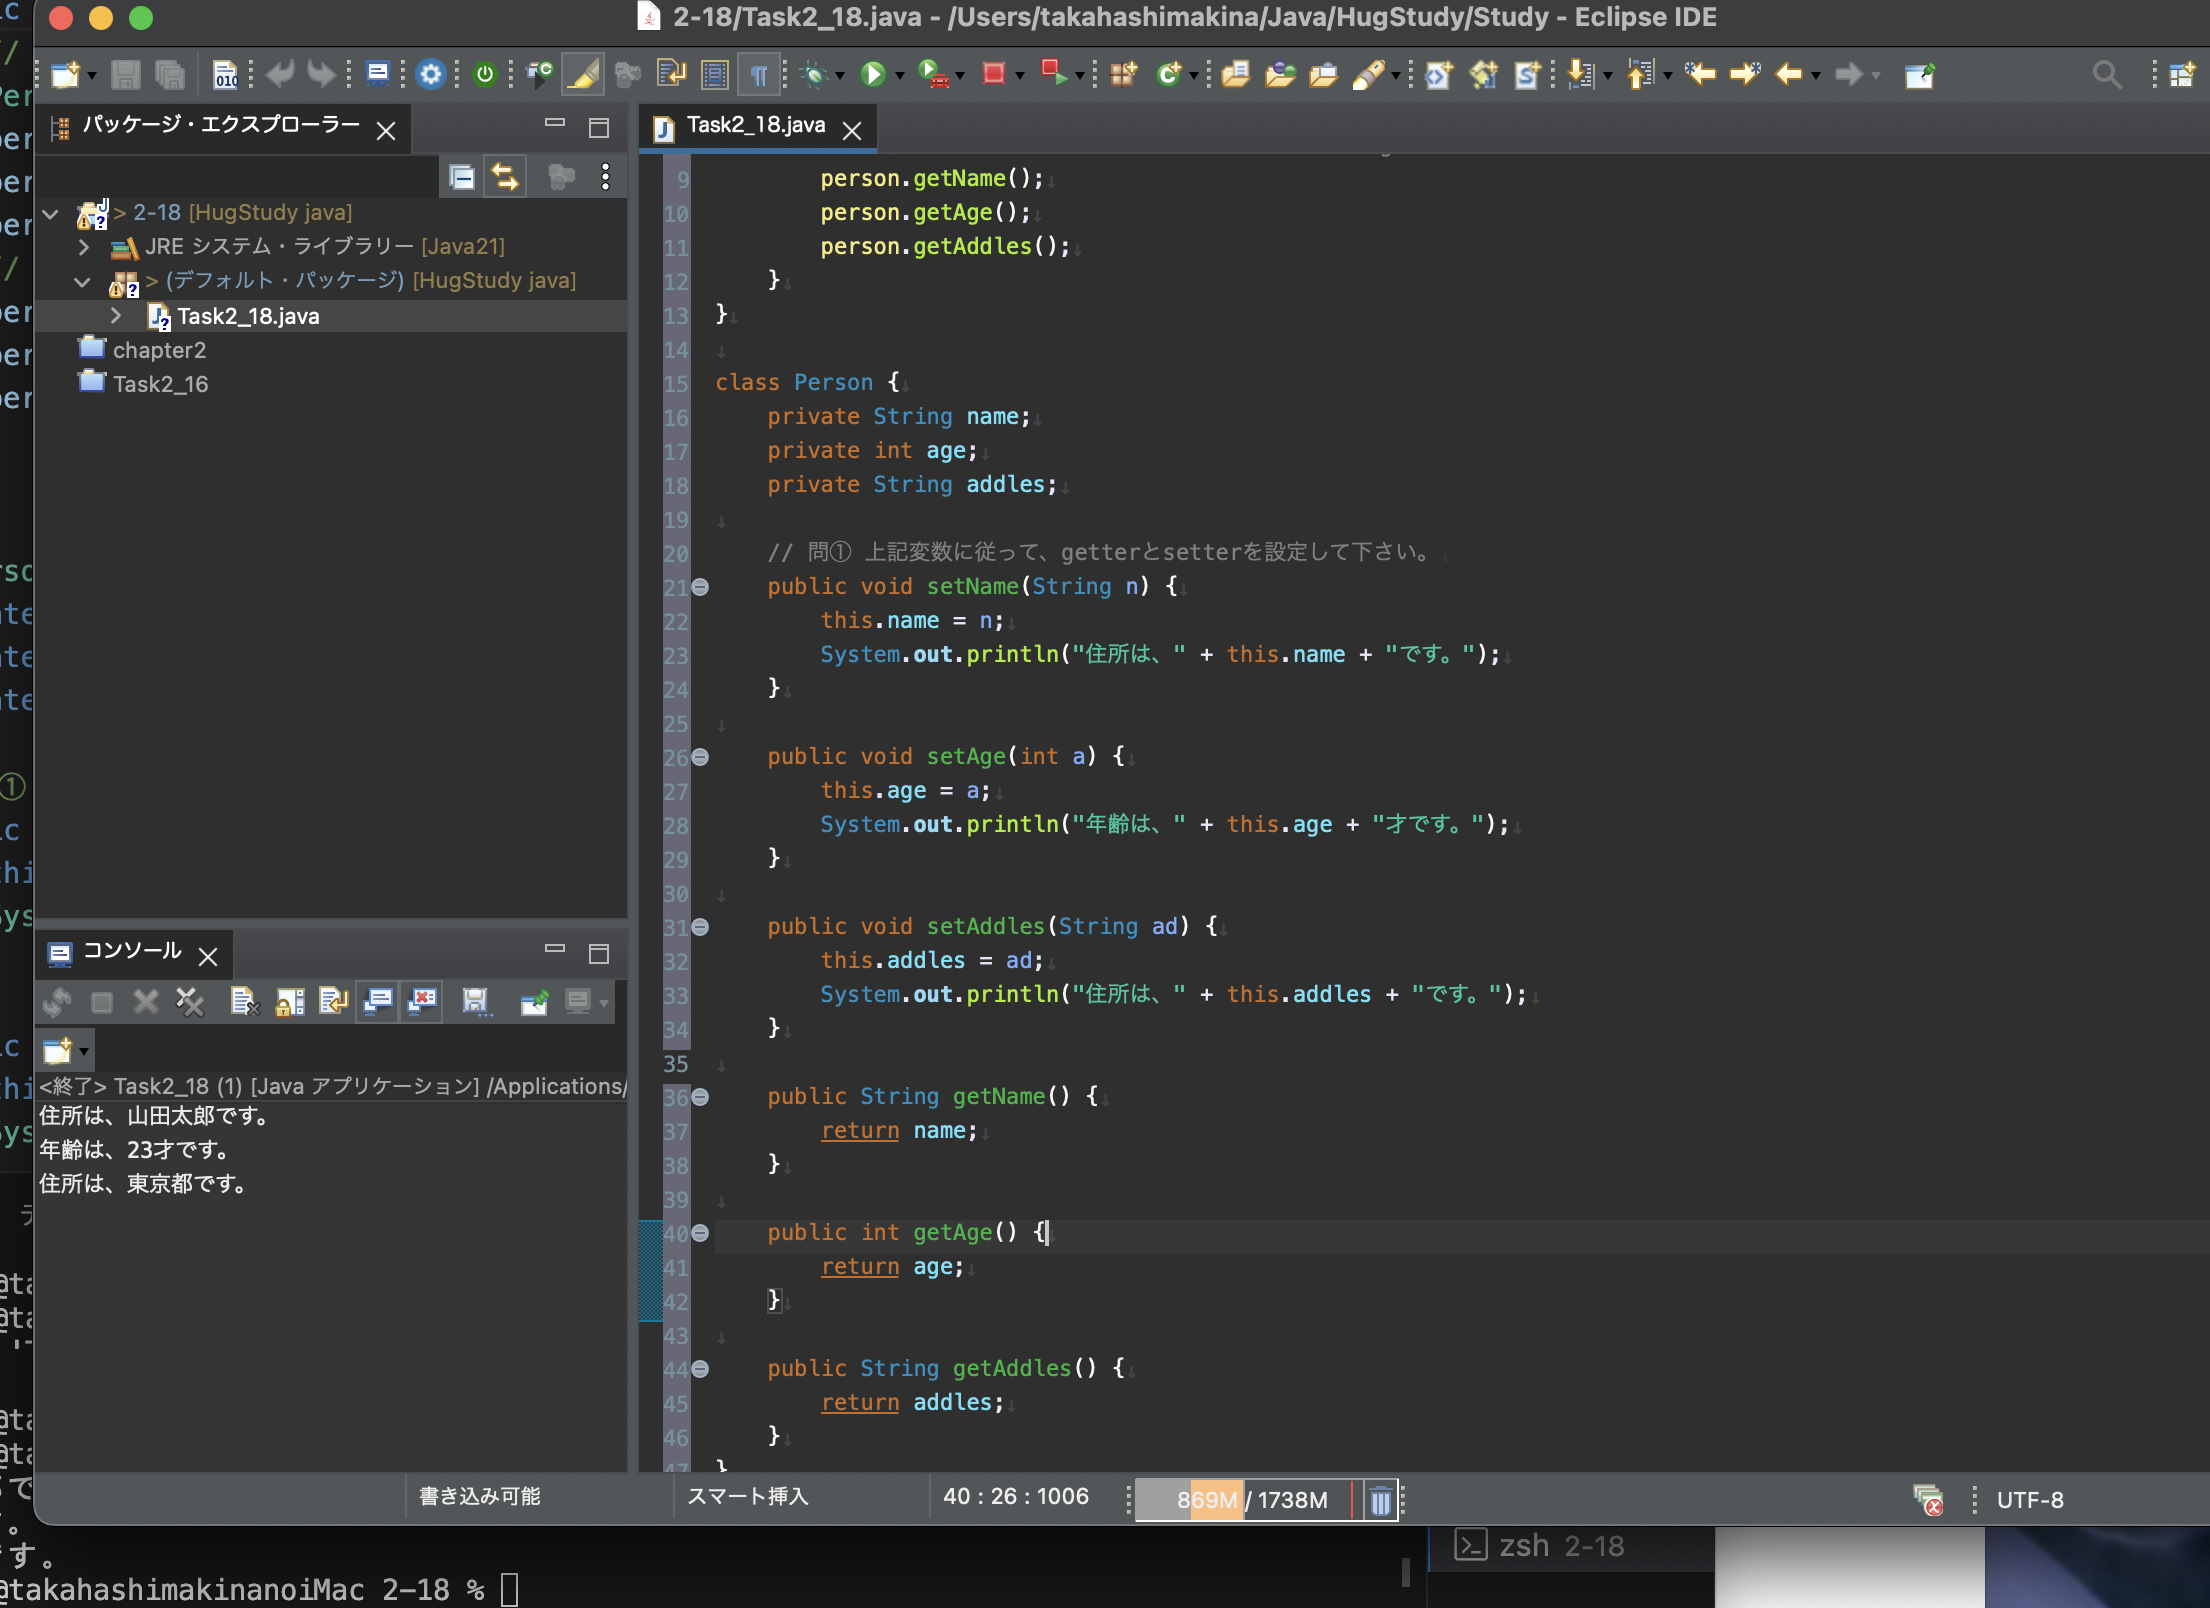
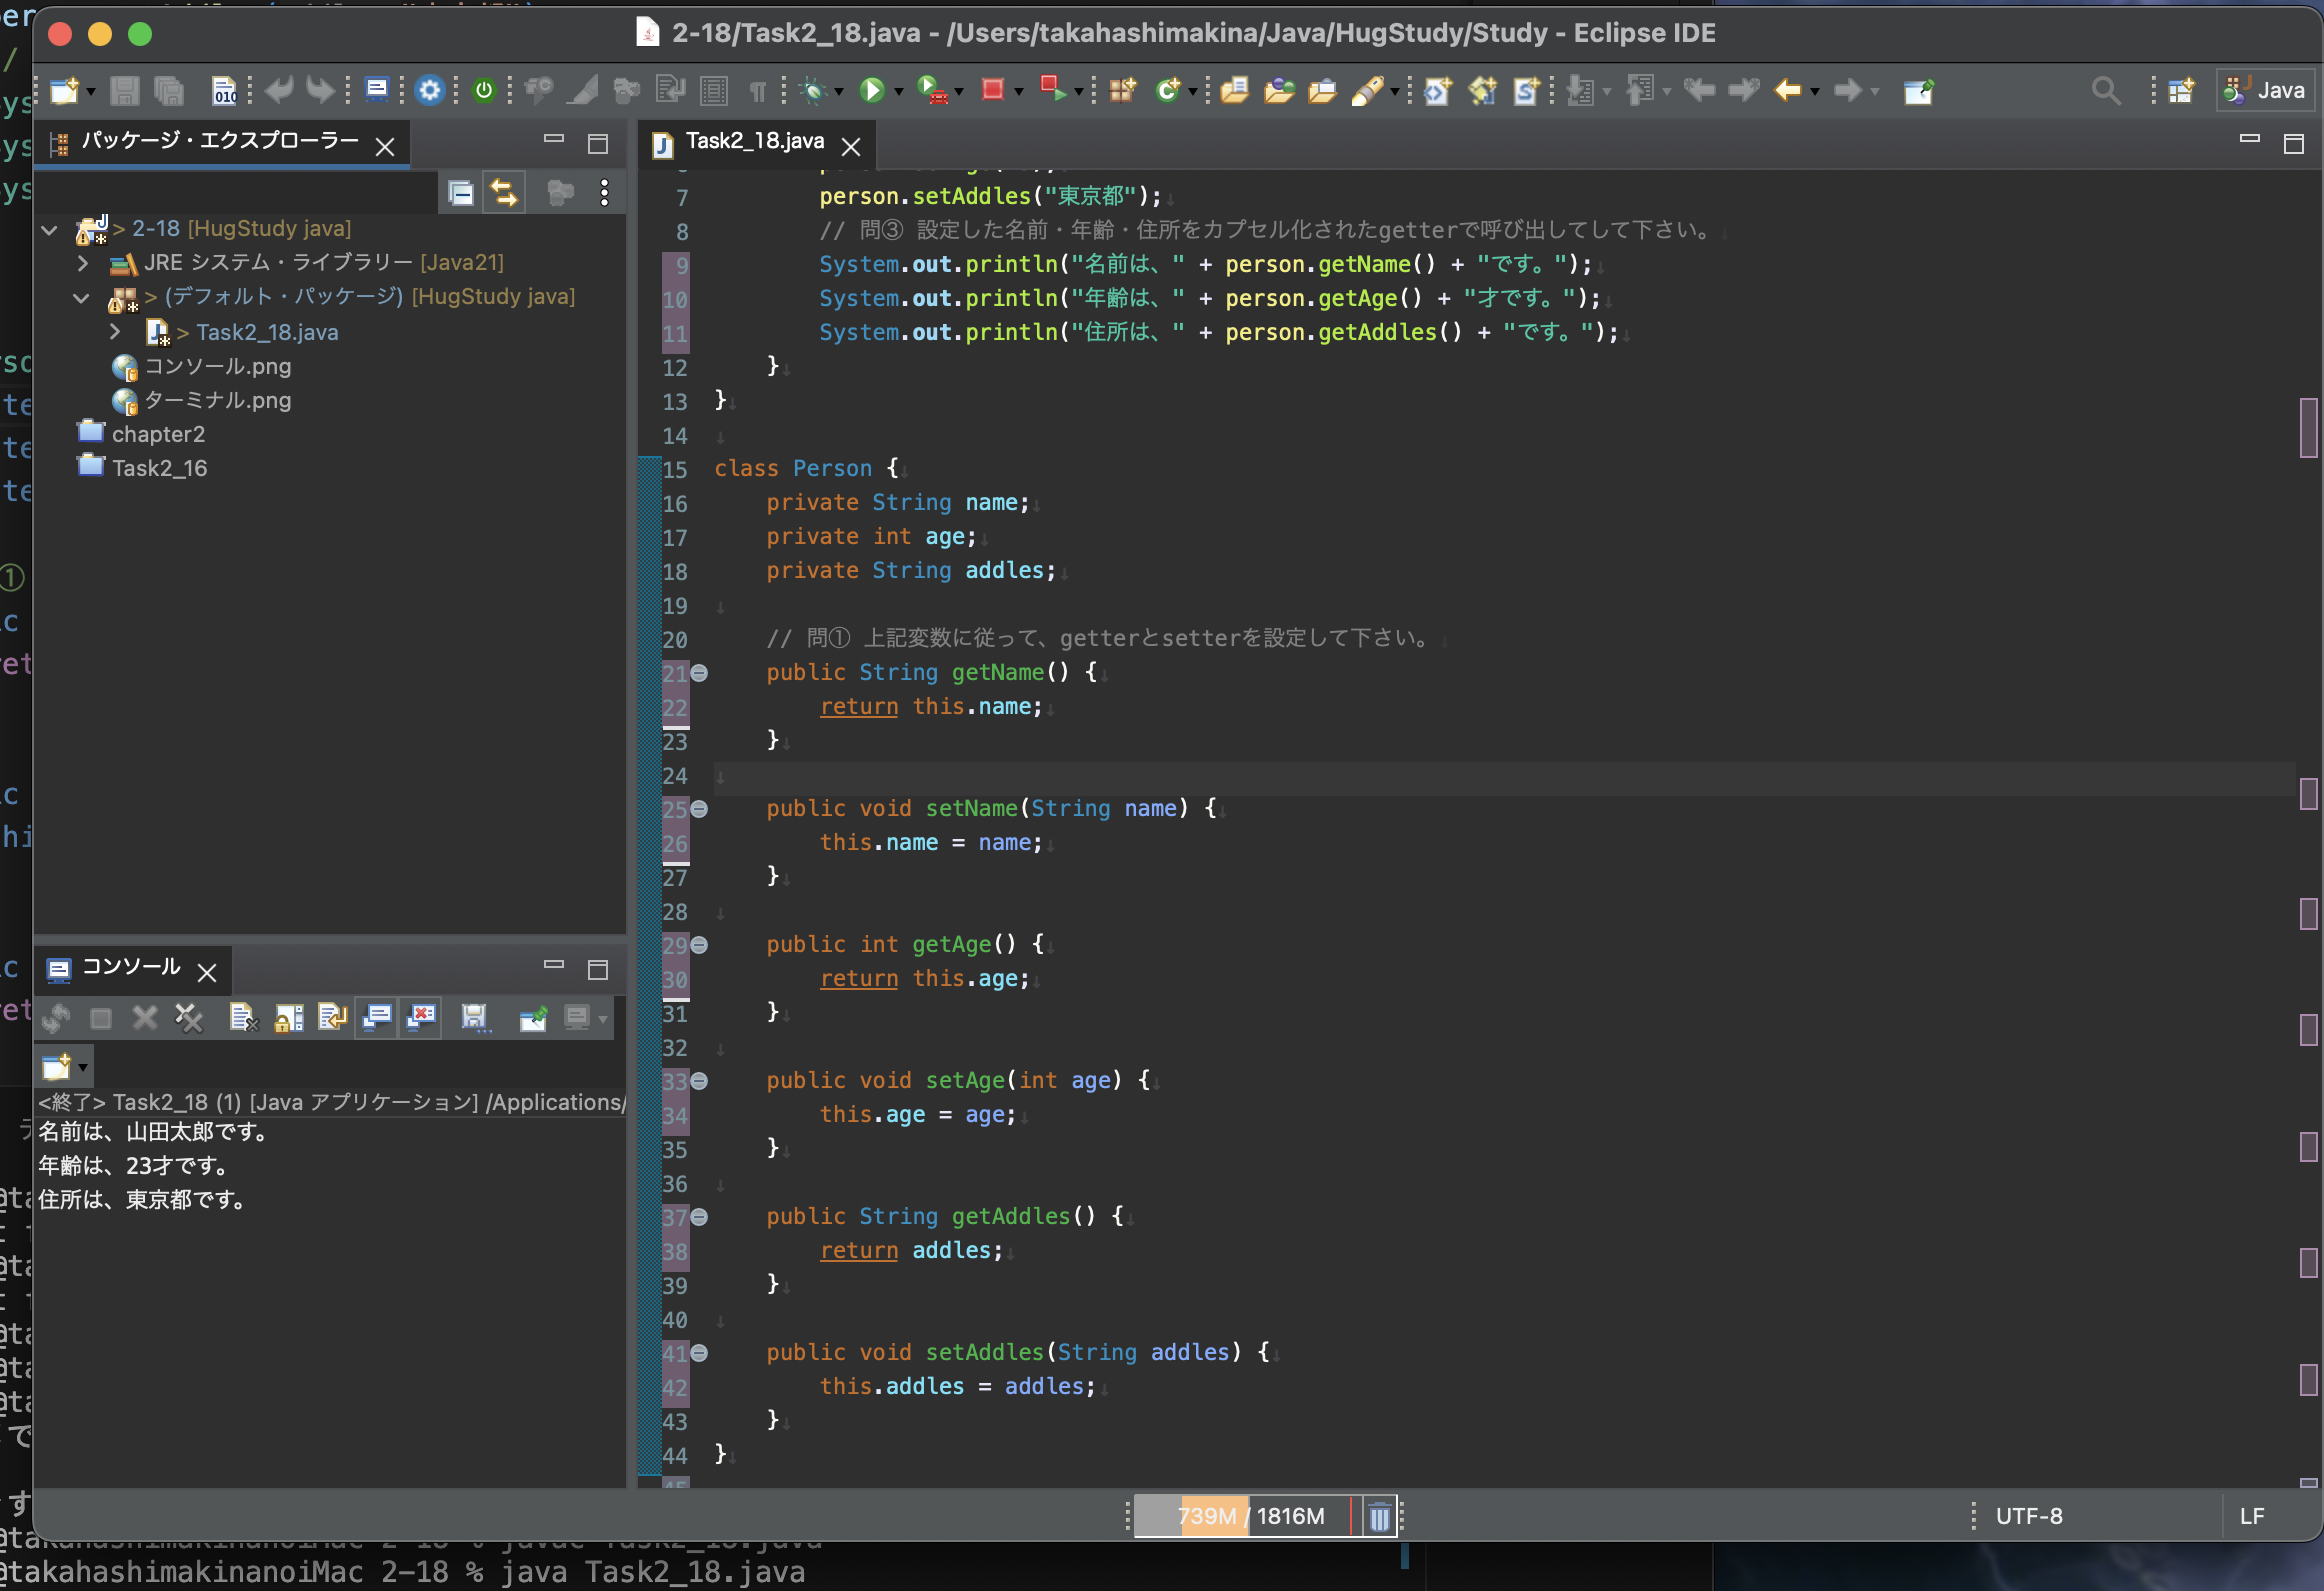
2-18

diff --git a/Study/2-18/Task2_18.java b/Study/2-18/Task2_18.java
@@ -6,9 +6,9 @@ public class Task2_18 {
         person.setAge(23);
         person.setAddles("東京都");
         // 問③ 設定した名前・年齢・住所をカプセル化されたgetterで呼び出してして下さい。
-        person.getName();
-        person.getAge();
-        person.getAddles();
+        System.out.println("名前は、" + person.getName() + "です。");
+        System.out.println("年齢は、" + person.getAge() + "才です。");
+        System.out.println("住所は、" + person.getAddles() + "です。");
     }
 }
 
@@ -18,30 +18,27 @@ class Person {
     private String addles;
 
     // 問① 上記変数に従って、getterとsetterを設定して下さい。
-    public void setName(String n) {
-        this.name = n;
-        System.out.println("住所は、" + this.name + "です。");
-    }
-
-    public void setAge(int a) {
-        this.age = a;
-        System.out.println("年齢は、" + this.age + "才です。");
-    }
-
-    public void setAddles(String ad) {
-        this.addles = ad;
-        System.out.println("住所は、" + this.addles + "です。");
-    }
-
     public String getName() {
-        return name;
+        return this.name;
+    }
+
+    public void setName(String name) {
+        this.name = name;
     }
 
     public int getAge() {
-        return age;
+        return this.age;
+    }
+
+    public void setAge(int age) {
+        this.age = age;
     }
 
     public String getAddles() {
         return addles;
+    }
+
+    public void setAddles(String addles) {
+        this.addles = addles;
     }
 }
